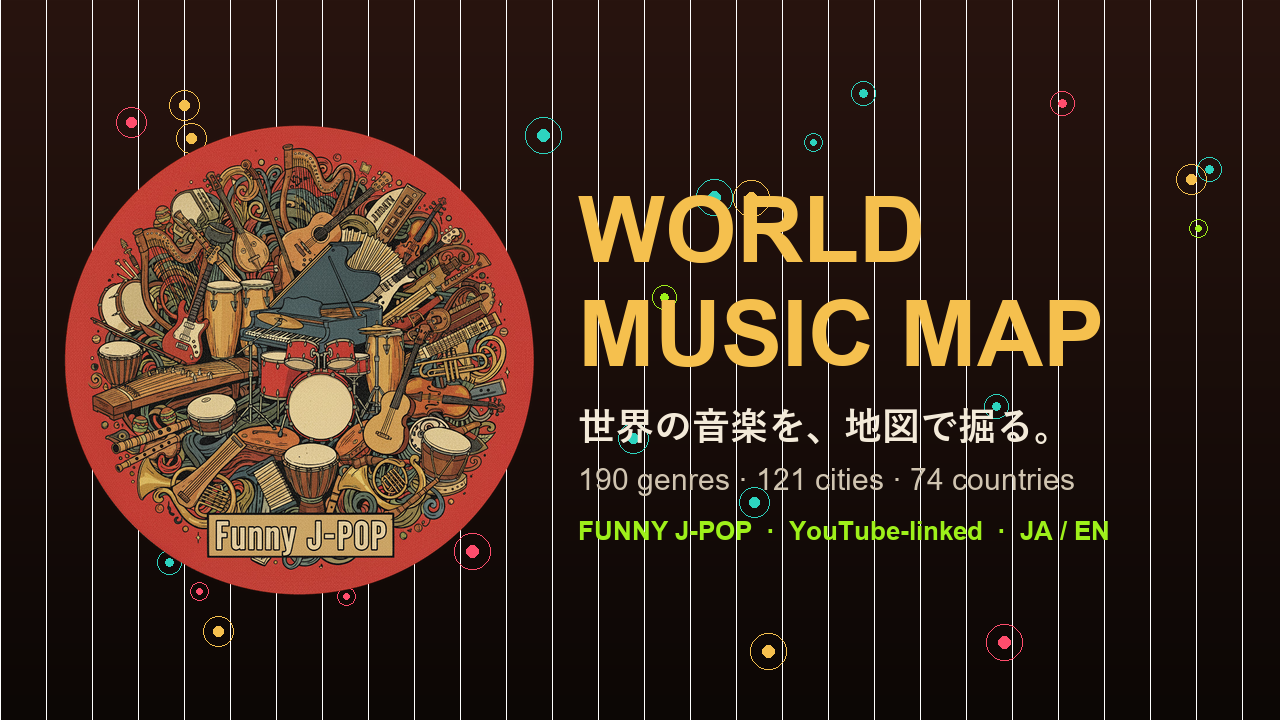
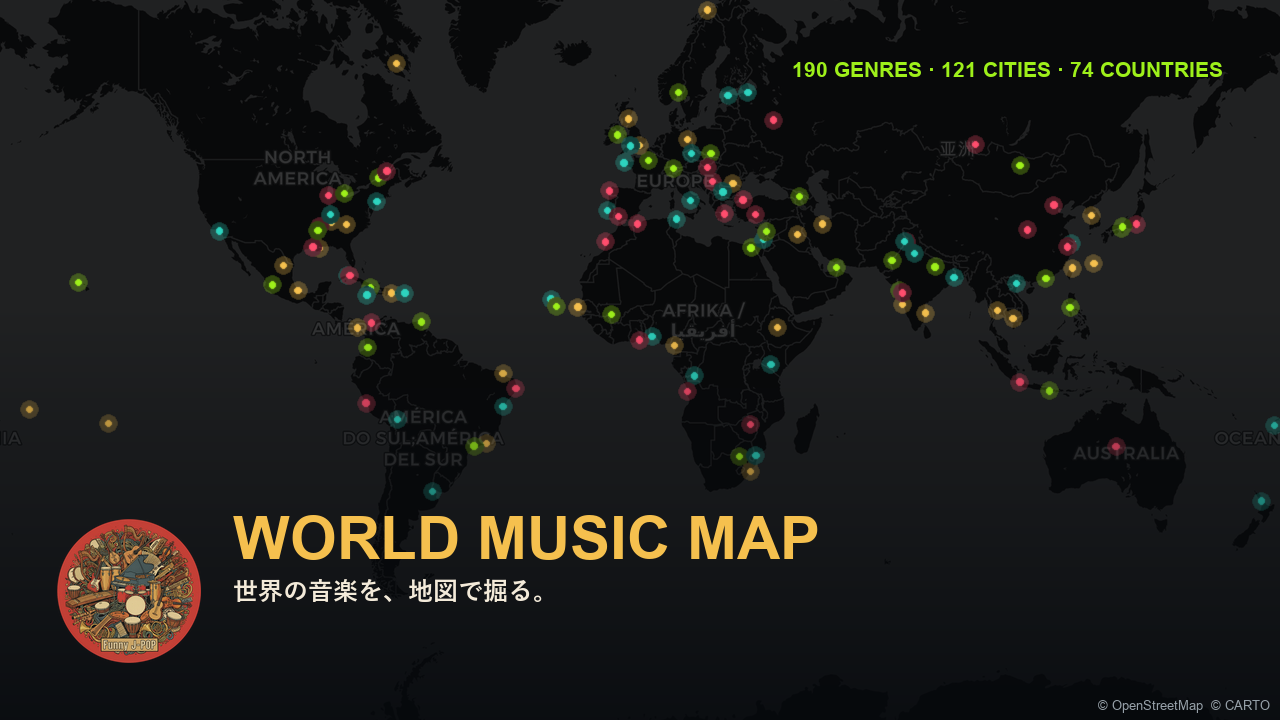
Redesign World Music Map promo images on a real world map (#22)
The previous graphic was just a grid and didn't convey the concept.
Now the promo images use the site's actual CARTO dark map tiles with
all 121 cities plotted at their real coordinates as colored pins, plus
brand lockup and stats. 16:9 and 1:1, with OSM/CARTO attribution.
Generated by scripts/make_map_promo.py (replaces make_promo_map.py).

diff --git a/scripts/make_map_promo.py b/scripts/make_map_promo.py
@@ -1,0 +1,85 @@
+#!/usr/bin/env python3
+"""実データの世界地図ベースのSNS宣伝画像を生成。
+   CARTO dark タイル(サイトと同じ)をstitch → 121都市を実緯度経度でピン表示 → ブランド合成。"""
+import sys, io, math, urllib.request, json
+from pathlib import Path
+from PIL import Image, ImageDraw, ImageFont, ImageFilter
+sys.stdout = io.TextIOWrapper(sys.stdout.buffer, encoding="utf-8")
+
+A = Path(r"C:/claude/web_test/assets")
+GOLD=(245,192,78); CREAM=(243,234,217); LIME=(158,240,26); TEAL=(45,212,191); PINK=(255,77,109); SUB=(214,203,184)
+F="C:/Windows/Fonts/"
+def af(s): return ImageFont.truetype(F+"arialbd.ttf", s)
+def ar(s): return ImageFont.truetype(F+"arial.ttf", s)
+def jp(s): return ImageFont.truetype(F+"YuGothB.ttc", s)
+
+Z = 2; TS = 512  # @2x tiles -> world 2048
+N = 2**Z
+WORLD = N*TS
+def fetch_world():
+    base = Image.new("RGB",(WORLD,WORLD),(11,17,23))
+    subs="abcd"
+    for tx in range(N):
+        for ty in range(N):
+            url=f"https://{subs[(tx+ty)%4]}.basemaps.cartocdn.com/dark_all/{Z}/{tx}/{ty}@2x.png"
+            req=urllib.request.Request(url, headers={"User-Agent":"Mozilla/5.0"})
+            with urllib.request.urlopen(req, timeout=30) as r:
+                t=Image.open(io.BytesIO(r.read())).convert("RGB")
+            base.paste(t,(tx*TS,ty*TS))
+    return base
+
+def merc(lat,lon):
+    x=(lon+180)/360*WORLD
+    s=math.sin(math.radians(lat)); s=max(min(s,0.9999),-0.9999)
+    y=(0.5 - math.log((1+s)/(1-s))/(4*math.pi))*WORLD
+    return x,y
+
+places=json.load(open(r"C:/claude/web_test/data/places.json",encoding="utf-8"))
+icon=Image.open(A/"funnyjpop-icon.png").convert("RGBA")
+world=fetch_world()
+print("world tiles fetched", world.size)
+
+def build(out, W, H, title_lines, tsz, lh, tagjp, layout):
+    # scale world square to width W, crop vertically to H (poles are empty ocean)
+    sc = W/WORLD
+    sw = world.resize((W, W), Image.LANCZOS)
+    top = (W-H)//2
+    img = sw.crop((0, top, W, top+H)).convert("RGB")
+    # darken a touch for contrast
+    img = Image.blend(img, Image.new("RGB",(W,H),(8,12,17)), 0.18)
+    glow = Image.new("RGBA",(W,H),(0,0,0,0)); gd=ImageDraw.Draw(glow)
+    cols=[TEAL,PINK,LIME,GOLD]
+    for i,p in enumerate(places):
+        x,y = merc(p["lat"],p["lon"]); x*=sc; y=y*sc-top
+        if not(-10<=y<=H+10): continue
+        c=cols[i%4]
+        gd.ellipse([x-9,y-9,x+9,y+9], fill=c+(70,))
+        gd.ellipse([x-3.2,y-3.2,x+3.2,y+3.2], fill=c+(255,))
+    glow=glow.filter(ImageFilter.GaussianBlur(0.6))
+    img=Image.alpha_composite(img.convert("RGBA"), glow)
+    d=ImageDraw.Draw(img)
+    # bottom scrim for legibility
+    scrim=Image.new("RGBA",(W,H),(0,0,0,0)); sd=ImageDraw.Draw(scrim)
+    for yy in range(H):
+        a=int(max(0,(yy-(H*0.42))/(H*0.58))*210)
+        sd.line([(0,yy),(W,yy)],fill=(6,9,13,a))
+    img=Image.alpha_composite(img,scrim); d=ImageDraw.Draw(img)
+    # brand icon + text bottom-left
+    isz= int(H*0.20); ic=icon.resize((isz,isz),Image.LANCZOS)
+    pad=int(W*0.045); by=H-pad-isz
+    img.alpha_composite(ic,(pad,by))
+    tx=pad+isz+int(W*0.025)
+    ty=by + (isz - (lh*len(title_lines)+10+tsz+8+30))//2
+    for ln in title_lines: d.text((tx,ty),ln,font=af(tsz),fill=GOLD); ty+=lh
+    ty+=8; d.text((tx,ty),tagjp,font=jp(int(tsz*0.42)),fill=CREAM)
+    # top-right stat chip
+    chip="190 GENRES · 121 CITIES · 74 COUNTRIES"
+    cf=af(int(H*0.030)); cw=d.textlength(chip,font=cf)
+    d.text((W-pad-cw, pad), chip, font=cf, fill=LIME)
+    # map attribution (CARTO/OSM terms)
+    at="© OpenStreetMap  © CARTO"; afnt=ar(13); aw=d.textlength(at,font=afnt)
+    d.text((W-aw-10, H-22), at, font=afnt, fill=(150,160,168))
+    img.convert("RGB").save(out, quality=92); print("wrote",out,img.size)
+
+build(A/"promo-map-16x9.png", 1280,720, ["WORLD MUSIC MAP"], 60, 66, "世界の音楽を、地図で掘る。", "wide")
+build(A/"promo-map-1x1.png", 1080,1080, ["WORLD","MUSIC MAP"], 78, 86, "世界の音楽を、地図で掘る。", "square")
